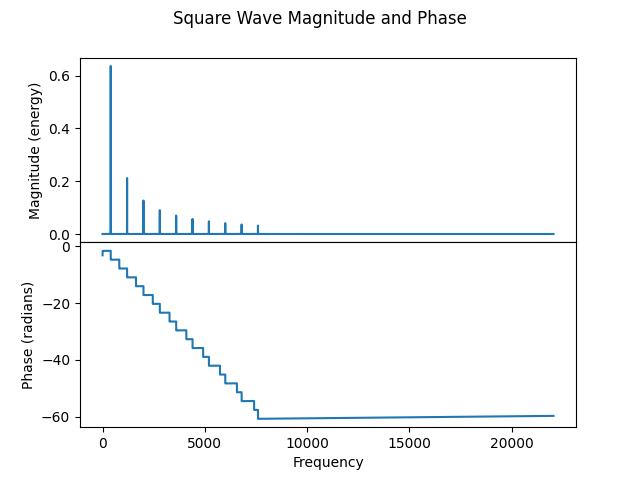
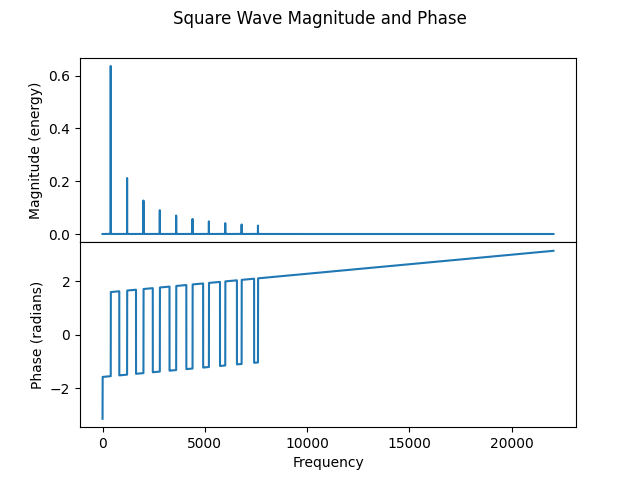
The spectrograms are now displaying properly and have been added. The XPhase is no longer wrapped and the phase diagrams have been updated accordingly.

diff --git a/assignment03/fourierAnalysis.py b/assignment03/fourierAnalysis.py
@@ -9,6 +9,8 @@ question1_file = '01_sinusoidal.png'
 question2_file = '02_squareWave.png'
 question3_file1 = '03_sineWaveFFT.png'
 question3_file2 = '03_squareWaveFFT.png'
+question4_file1 = '04_rectSpectrogram.png'
+question4_file2 = '04_hannSpectrogram.png'
 
 
 # Question 1: Generating sinusoids in Python
@@ -112,21 +114,23 @@ def mySpecgram(x, block_size, hop_size, sampling_rate_Hz, window_type):
             f, XAbs, XPhase, XRe, XIm = computeSpectrum(X[i], sampling_rate_Hz)
         magnitude_spectrogram[:, i] = XAbs
 
-    spectrum, freqs, time, im = plt.specgram(x, NFFT=block_size, Fs=sampling_rate_Hz, noverlap=hop_size)
+    magnitude_spectrogram = np.log10(magnitude_spectrogram)
+    # spectrum, freqs, time, im = plt.specgram(x, NFFT=block_size, Fs=sampling_rate_Hz, noverlap=hop_size)
 
-    # plt.imshow(magnitude_spectrogram[0:512], origin='lower', interpolation='nearest',
-    #            aspect='auto', cmap='Spectral')
-    #
-    # num_y_ticks = 1024
-    # sample_nums = np.linspace(0, magnitude_spectrogram.shape[0], num_y_ticks)
-    # step_size_Hz = f[-1]/len(f)
-    # # y_ticks = np.arange(f[0], f[-1], step_size_Hz*10)
-    # # y_ticks = [f[i] for i in range(0, len(f), int(len(f)/20) - 1)]
-    # # plt.yticks(y_ticks)
-    # plt.locator_params(axis='y', nbins=1024)
-    # plt.ylabel("Frequency (Hz)")
-    # plt.tight_layout()
+    plt.imshow(magnitude_spectrogram, origin='lower', interpolation='nearest',
+               aspect='auto', extent=[t[0], t[-1], f[0], f[-1]])
 
+    if window_type == 'hann':
+        plt.title('Spectrogram with a Hanning Window')
+        save_file = results_dir + question4_file2
+    else:
+        save_file = results_dir + question4_file1
+        plt.title('Spectrogram with a Rectangular Window')
+
+    plt.ylabel("Frequency (Hz)")
+    plt.xlabel("Time (s)")
+
+    plt.savefig(save_file)
     plt.show()
 
     return freq_vector, time_vector, magnitude_spectrogram
@@ -159,7 +163,7 @@ def plotFFTData(f, XAbs, XPhase, title, xlabel, ylabels, save_file):
     axes[0].plot(f, XAbs)
     axes[0].set(xlabel=xlabel)
     axes[0].set(ylabel=ylabels[0])
-    axes[1].plot(f, np.unwrap(XPhase))
+    axes[1].plot(f, XPhase)
     axes[1].set(xlabel=xlabel)
     axes[1].set(ylabel=ylabels[1])
 
@@ -216,9 +220,12 @@ if __name__ == '__main__':
     # Question 4: Spectrogram
     block_size = 2048
     hop_size = 1024
-    window_type = 'hann'
+
+    # Spectrogram of the square wave with a rectangular window applied.
+    window_type = 'rect'
     freq_vector, time_vector, magnitude_spectrogram = mySpecgram(x_square, block_size, hop_size, sampling_rate_Hz, window_type)
 
+    # Spectrogram of the square wave with a hanning window applied.
     window_type = 'hann'
     freq_vector, time_vector, magnitude_spectrogram = mySpecgram(x_square, block_size, hop_size, sampling_rate_Hz,
                                                                  window_type)
